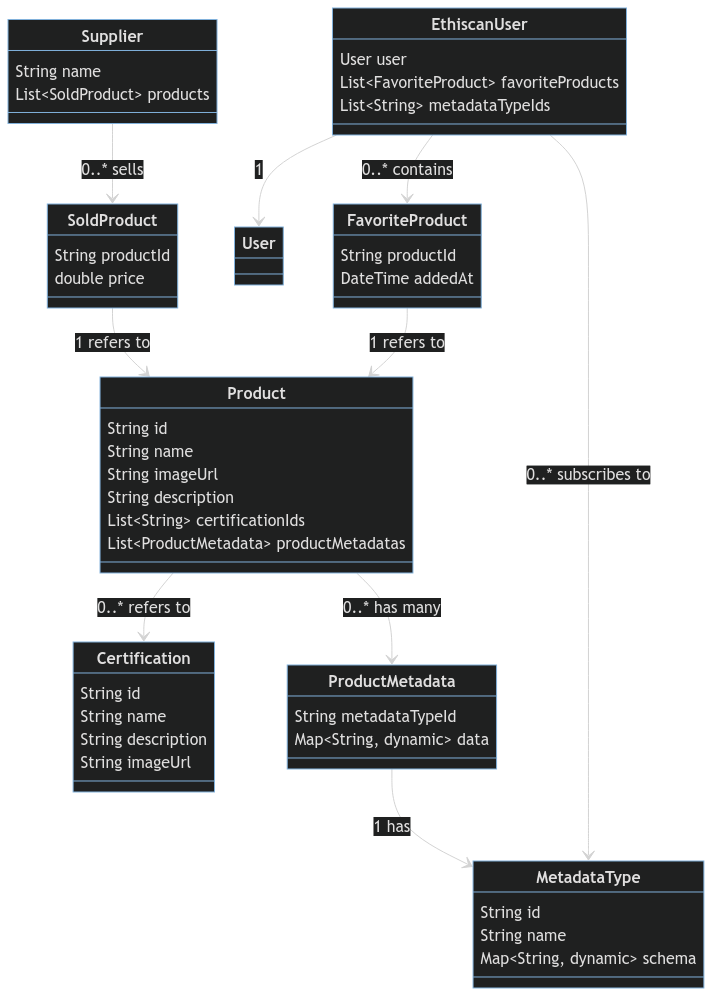
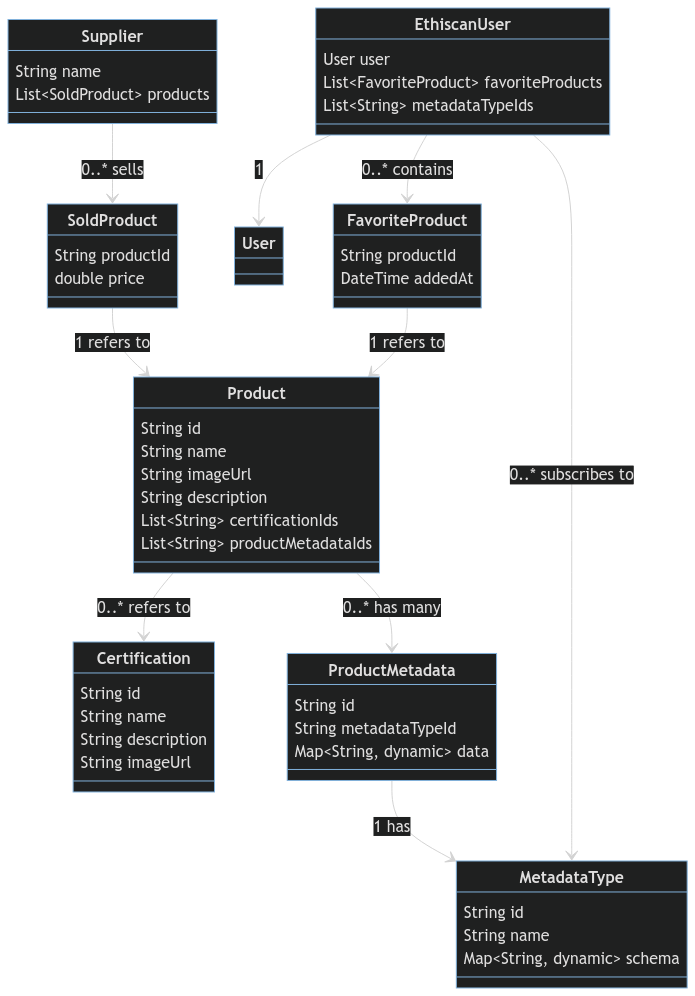
DATA FIXER

diff --git a/base/Diagramme_Classe.md b/base/Diagramme_Classe.md
@@ -2,11 +2,11 @@ classDiagram
     class EthiscanUser {
         User user
         List~FavoriteProduct~ favoriteProducts
-        UserPreferences userPreferences
+        List~String~ metadataTypeIds
     }
 
     class FavoriteProduct {
-        Product product
+        String productId
         DateTime addedAt
     }
 
@@ -15,11 +15,12 @@ classDiagram
         String name
         String imageUrl
         String description
-        Certification certification
-        List~ProductMetadata~ productMetadatas
+        List~String~ certificationIds
+        List~String~ productMetadataIds
     }
 
     class Certification {
+        String id
         String name
         String description
         String imageUrl
@@ -31,31 +32,29 @@ classDiagram
     }
 
     class SoldProduct {
-        Product product
+        String productId
         double price
     }
 
     class MetadataType {
+        String id
         String name
         Map~String, dynamic~ schema
     }
 
     class ProductMetadata {
-        MetadataType type
+        String id
+        String metadataTypeId
         Map~String, dynamic~ data
-    }
-
-    class UserPreferences {
-        List~MetadataType~ metadataSubscriptions
     }
 
     EthiscanUser --> User : 1
     EthiscanUser --> FavoriteProduct : 0..* contains
-    EthiscanUser --> UserPreferences : 1 has
+    EthiscanUser --> MetadataType : 0..* subscribes to
 
-    FavoriteProduct --> Product : 1 contains
+    FavoriteProduct --> Product : 1 refers to
 
-    Product --> Certification : 0..1 has
+    Product --> Certification : 0..* refers to
     Product --> ProductMetadata : 0..* has many
 
     Supplier --> SoldProduct : 0..* sells
@@ -63,5 +62,3 @@ classDiagram
     SoldProduct --> Product : 1 refers to
 
     ProductMetadata --> MetadataType : 1 has
-
-    UserPreferences --> MetadataType : 0..* subscribes to
